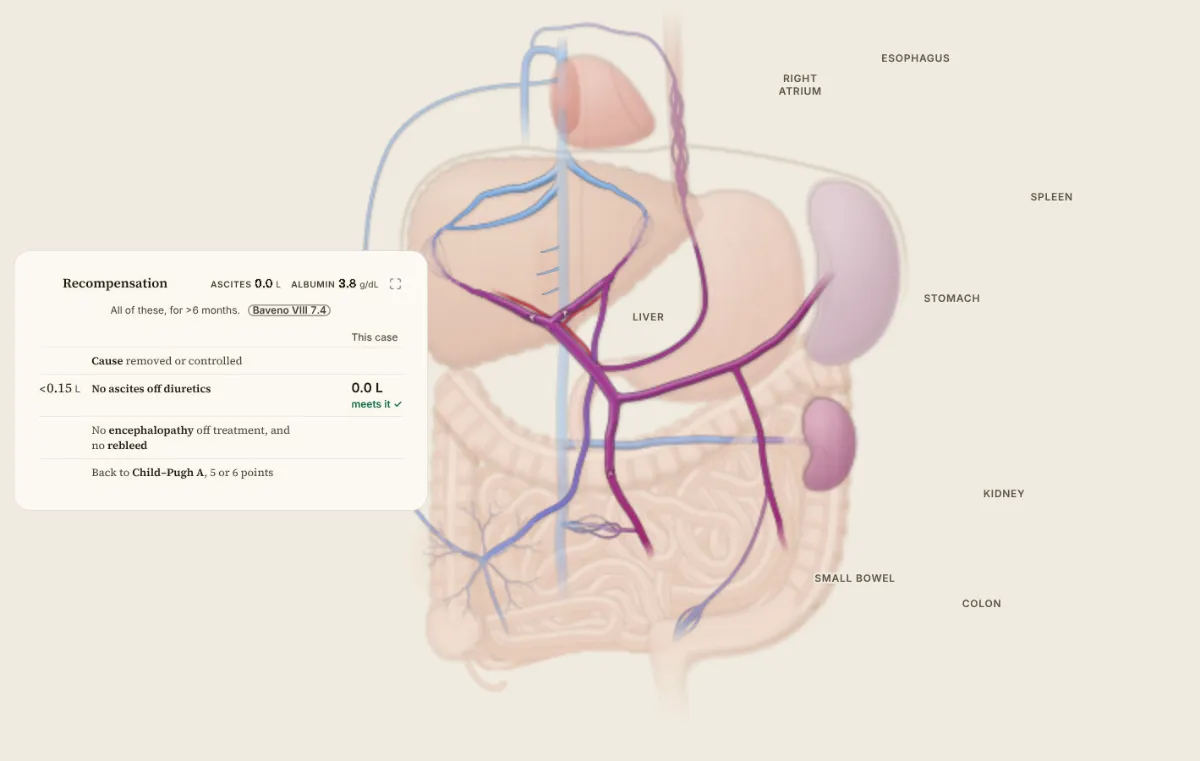
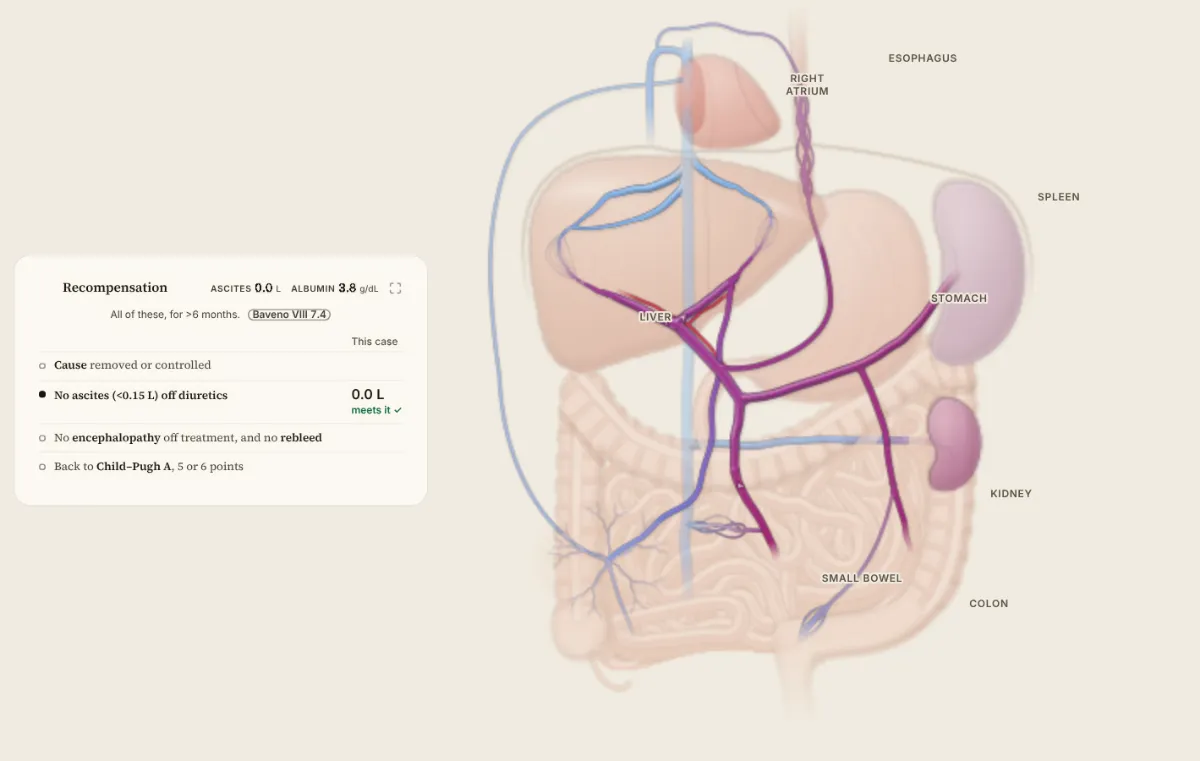
Criteria cards: put single-rule cut-offs in the row text, fix the kidney talk test
Claude-Session: https://claude.ai/code/session_019srS22PedCwAZKLw712xe9

diff --git a/src/ui/decks/tipping.js b/src/ui/decks/tipping.js
@@ -68,7 +68,7 @@ export const TIPPING = {
     {
       id: 'nocsph', cam: 'fit', data: 'tiles', tiles: ['hvpg', 'map'], key: ['hvpg'],
       tool: { kind: 'criteria', title: 'Infection and cirrhosis', short: 'Infection', ticks: false, lead: 'It depends on the portal pressure.', rule: 'Baveno VIII 3.10, 3.11',
-        rows: [{ text: '**With CSPH**: infection can precipitate decompensation or ACLF', key: 'hvpg', op: '>=', value: 10, cut: '≥10 mmHg' }, '**Without CSPH**: the effect of infection on the course is unclear'],
+        rows: [['**With CSPH** (≥10 mmHg): infection can precipitate decompensation or ACLF', 'hvpg', '>=', 10], '**Without CSPH**: the effect of infection on the course is unclear'],
         verdict: 'He has CSPH, so an infection can tip him over.' },
       kicker: 'Infection', site: 'sin', title: 'Infection is known to tip patients with CSPH, and unclear without it',
       line: 'Baveno VIII ties infection to decompensation in patients with CSPH. In compensated cirrhosis without CSPH, its effect on the course is unclear.',
@@ -79,8 +79,8 @@ export const TIPPING = {
       id: 'surgery', preset: 'csph', params: {}, cam: 'fit', data: 'tiles', tiles: ['hvpg', 'map'], key: ['hvpg'],
       whatIf: { label: 'Cirrhosis', param: 'cirrhosis', min: 0.5, max: 0.8, step: 0.05, ends: ['Milder', 'Worse'] },
       tool: { kind: 'criteria', title: 'Before abdominal surgery', short: 'Before surgery', lead: 'The risk after surgery rises with the HVPG.', rule: 'Baveno VIII 3.13, 3.20',
-        rows: [{ text: '**HVPG**: higher short-term mortality after non-hepatic abdominal surgery', key: 'hvpg', op: '>=', value: 16, cut: '≥16 mmHg' }, '**Major surgery** can precipitate decompensation or ACLF'],
-        verdict: 'Before major surgery: a preoperative TIPS may be considered, to lower the risk of decompensation (weak).' },
+        rows: [['**HVPG ≥16 mmHg**: higher short-term mortality after abdominal surgery', 'hvpg', '>=', 16], '**Major surgery** can precipitate decompensation or ACLF'],
+        verdict: 'Before major surgery: a preoperative TIPS may be considered (weak).' },
       kicker: 'Surgery', site: 'sin', title: 'The higher the HVPG, the riskier the surgery',
       line: 'Surgery, especially major surgery, can tip him over. After abdominal surgery, short-term mortality is higher once the HVPG is {>=16 mmHg}.',
       notes: 'Baveno VIII 3.13: surgery, especially major surgery, can precipitate decompensation or ACLF in compensated cirrhosis with CSPH, and the risk rises with the severity of portal hypertension. Table 3 (a statement of an earlier report that remains valid): in candidates for non-hepatic abdominal surgery, an HVPG of 16 mmHg or more goes with a higher short-term mortality after the operation. Baveno VIII 3.20, part b: a preoperative TIPS may be considered before major surgery to reduce the risk of postoperative decompensation (low-quality evidence, weak recommendation). The slider makes the scar worse, so the HVPG climbs toward the 16 mmHg line; it also brings on some ascites, as it does in the patients.',

diff --git a/src/ui/decks/recompensation.js b/src/ui/decks/recompensation.js
@@ -59,7 +59,7 @@ export const RECOMPENSATION = {
     },
     {
       id: 'recomp', tick: 'Off diuretics', params: { diuretics: false }, days: 60, cam: 'fit', data: 'tiles',
-      tool: { kind: 'criteria', title: 'Recompensation', lead: 'All of these, for >6 months.', rule: 'Baveno VIII 7.4', rows: ['**Cause** removed or controlled', { text: 'No **ascites** off diuretics', key: 'asc', op: '<', value: 0.15, cut: '<0.15 L' },
+      tool: { kind: 'criteria', title: 'Recompensation', lead: 'All of these, for >6 months.', rule: 'Baveno VIII 7.4', rows: ['**Cause** removed or controlled', ['No **ascites** (<0.15 L) off diuretics', 'asc', '<', 0.15],
         'No **encephalopathy** off treatment, and no **rebleed**', 'Back to **Child–Pugh A**, 5 or 6 points'] }, tiles: ['asc', 'salb'], key: ['asc'],
       kicker: 'Recompensation', site: 'sin', title: 'Baveno VIII criteria for recompensation',
       line: 'Off diuretics the ascites stays away and the albumin holds. If that lasts >6 months, with the liver back to Child–Pugh A, this counts as recompensation.',

diff --git a/tests/kidney-pressure.test.js b/tests/kidney-pressure.test.js
@@ -88,7 +88,7 @@ test('no file but the module writes the kidney pressure cut-off as a number', ()
 test('the kidney talk types the same two rules as the module (a deck is one file with no imports)', async () => {
   const { DECKS } = await import('../src/ui/decks.js');
   const d = DECKS.find((x) => x.id === 'kidney'), text = JSON.stringify(d);
-  const hold = d.slides.find((s) => s.id === 'hold'), live = hold.tool.rows.filter((r) => Array.isArray(r));
+  const hold = d.slides.find((s) => s.id === 'hold'), live = hold.tool.rows.filter((r) => Array.isArray(r) || r?.key).map((r) => (Array.isArray(r) ? r : [r.text, r.key, r.op, r.value]));
   assert.deepEqual(live.map((r) => r.slice(1)), [['sbp', '<', KIDNEY_CUTS.sbpBeta], ['map', '<', KIDNEY_CUTS.mapBeta]], 'the live rows are the beta-blocker lines, systolic and mean');
   assert.ok(text.includes(`MAP <${KIDNEY_CUTS.mapBeta} mmHg`));
   assert.ok(d.slides.find((s) => s.id === 'carv').line.includes(`{>=${KIDNEY_CUTS.rpp} mmHg}`), 'the carvedilol slide\'s rule pill is the tile\'s line');

diff --git a/CHANGELOG.md b/CHANGELOG.md
@@ -15,7 +15,7 @@
 - **The caudate lobe and its short veins show only on a slide about them again, and the veins taper to a point.** (Mohammad, 11 Nov: not in the normal views; his screenshot showed stubs with rounded caps and no visible lobe.)
   The Budd–Chiari dashed outline and arrows come with the lobe, so they too appear only on those slides. Each vein now grows from a point inside the lobe, and the lobe has a double dome and a faint rim so it reads as a shape. The circuit lane for the caudate vein is unchanged.
 
-- **Criteria cards now show the cut-off each live row is checked against.** On "Before abdominal surgery" the row read "meets it ✓" with no number. It now has the Baveno VIII cut-off, ≥16 mmHg, at its left, a clearer row ("HVPG: higher short-term mortality after non-hepatic abdominal surgery"), the lead "The risk after surgery rises with the HVPG." and the TIPS line "Before major surgery: a preoperative TIPS may be considered, to lower the risk of decompensation (weak)." The same fix on Infection (≥10 mmHg), Carvedilol hold (systolic <90, MAP <65 mmHg) and Recompensation (ascites <0.15 L). Handout figures redrawn for those four.
+- **Criteria cards now show the cut-off each live row is checked against.** On "Before abdominal surgery" the row read "meets it ✓" with no number. The row now says "HVPG ≥16 mmHg: higher short-term mortality after abdominal surgery" (Baveno VIII Table 3), the lead is "The risk after surgery rises with the HVPG." and the foot reads "Before major surgery: a preoperative TIPS may be considered (weak)." The same fix on Infection (≥10 mmHg in the row), Recompensation (ascites <0.15 L) and Carvedilol hold (cut-off column: systolic <90, MAP <65 mmHg). A lone cut-off column stays banned (two rows or none), so single-rule cards carry the number in the words. Handout figures redrawn.
 - **The caudate lobe now has its own drainage on screen, and Budd–Chiari shows the lobe growing.** (Mohammad's picks: Anatomy 1, Circuit A, enlargement variation B.)
   Anatomy: the lobe and its three short veins are always drawn (they used to appear only on slides that pinned the caudate); a slide about the DIPS still shows the lobe alone while the stent runs through it. Circuit: the caudate vein CAUD is a lane of its own that enters the IVC from the north, crossing the TIPS and DIPS lanes once each. As the lobe grows (the CAUD flow rising to twice, then four times, the healthy value) a dashed outline of the normal lobe stays behind and two arrows point out of it. The dashed line carries no label, and no text label was added.
   The lane runs at y 269, not the 264 of the mock: the lane rule needs 23 units from the TIPS lane. It steps 3 units at the station so the tube joint has no fin, and its last corner is square so the lane rule does not read it as running along the DIPS diagonal. `tests/caudate-drainage.test.js` holds these.
